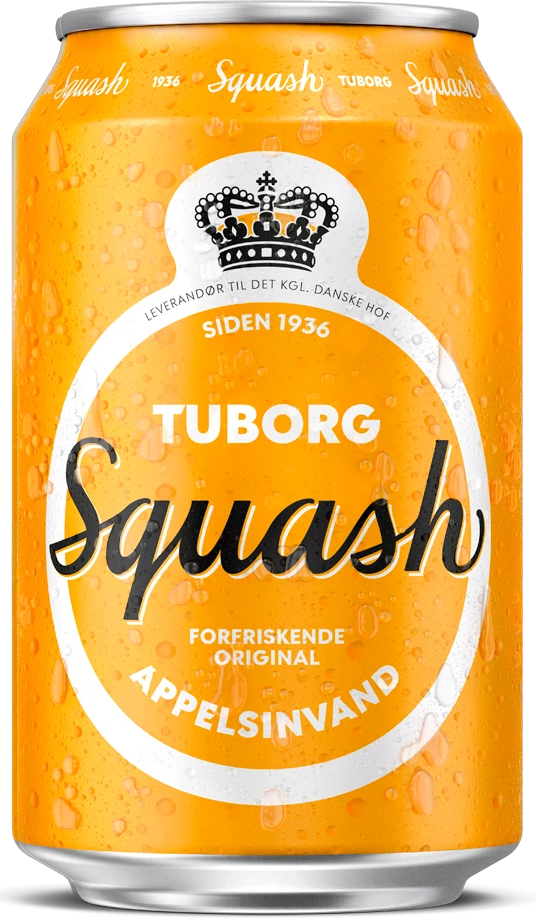
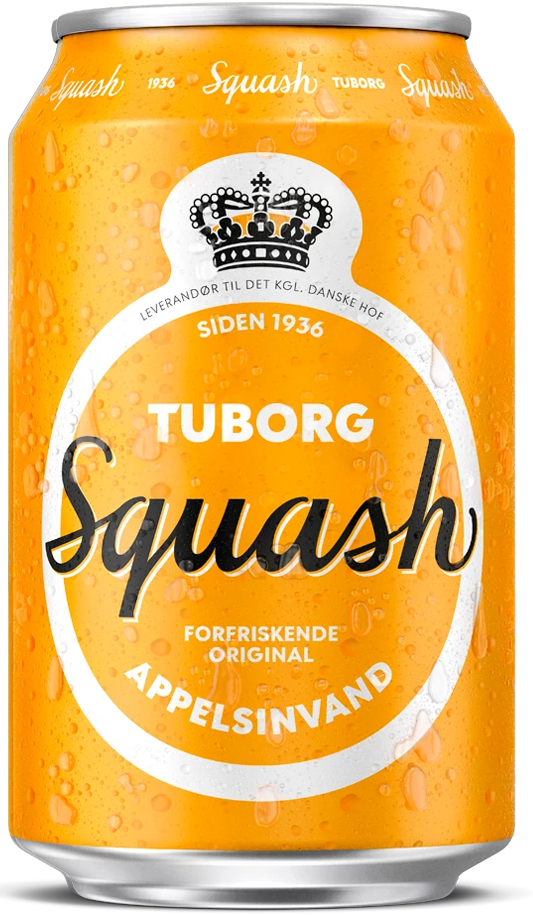
Optimizing & SEO
I have optimized all pictures by saving them for web in Photoshop and changing size if necessary.

I have also added Meta tags in written descriptions.

Lastly I deleted old code which was no longer necessary.

diff --git a/index.html b/index.html
@@ -5,10 +5,14 @@
     <meta charset="UTF-8">
     <meta http-equiv="X-UA-Compatible" content="IE=edge">
     <meta name="viewport" content="width=device-width, initial-scale=1.0">
+    <meta name="description" content="Find information omkring Tuborg Squash sodavand. Udforsk Squash universet og deltag i konkurrencer. 
+    Kom på en rejse gennem tiden og oplev hvordan Tuborg Squash har udviklet sig. 
+    Læs sjove fun-facts omkring sodavanden og se hvilke Tuborg Squash varianter vi tilbyder.">
     <script src="https://kit.fontawesome.com/e4a889809e.js" crossorigin="anonymous"></script>
-    <title>Tuborg Squash</title>
     <link rel="stylesheet" href="styles.css">
+    <link rel="preload" as="style" href="styles.css">
     <link rel="shortcut icon" href="images/favicon.png" type="image/x-icon">
+    <title>Tuborg Squash - Oplevelsesside 2022 | Find information omkring Tuborg Squash</title>
 </head>
 <body>
     <!-- HEADER -->
@@ -50,7 +54,7 @@
         </div>
         
         <!-- Arrow down -->
-        <a href="#section1"><i class="fa-solid fa-circle-arrow-down"></i></a>
+        <a href="#section1" aria-label="to next section"><i class="fa-solid fa-circle-arrow-down"></i></a>
     </section>
 
     <!-- MAIN CONTENT -->
@@ -60,14 +64,14 @@
             <div class="history">
                 <div class="history-text">
                     <h1>1936</h1>
-                    <img class="hist-img-small" src="images/oldposter.png" alt="gammel squash plakat">
+                    <img class="hist-img-small" src="images/oldposter.jpg" alt="gammel squash plakat">
                     <p>1936.... Parkometeret bliver opfundet. Danmark sætter kulderekord i juni Måned. Men vigtigst af alt, så bliver de første dråber Squash tappet d. 5 august 1936 og hældt på flaske. 
 
                         <br><br> Siden da har Tuborg Squash altid været en stor favorit blandt det danske folk. 
                         
                         <br><br> Undervejs er Tuborg Squash blevet understøttet af flere sjove reklamer. Herunder "skvash" reklamen med Finn & Jacob.</p>
                 </div>
-                <img class="hist-img-big" src="images/oldposter.png" alt="gammel squash plakat">
+                <img class="hist-img-big" src="images/oldposter.jpg" alt="gammel squash plakat">
             </div>
         </section>
         <!-- Second section -->
@@ -163,7 +167,7 @@
                     <h2>Tuborg Squash Light</h2>
                 </div>
             </div>
-            <a href="#front-page"><i class="fa-solid fa-house" id="house-bottom"></i></a>
+            <a href="#front-page" aria-label="to front page"><i class="fa-solid fa-house" id="house-bottom"></i></a>
         </section>
     </main>
 </body>

diff --git a/squashregular.html b/squashregular.html
@@ -5,10 +5,13 @@
     <meta charset="UTF-8">
     <meta http-equiv="X-UA-Compatible" content="IE=edge">
     <meta name="viewport" content="width=device-width, initial-scale=1.0">
+    <meta name="description" content="Tuborg Squash er Danmarks ældste sodavand som stadig er i produktion. Her kan du finde information omkring Tuborg Squash. 
+    Vil du vide hvad Tuborg Squash indeholder, kan du finde det her på siden.">
     <script src="https://kit.fontawesome.com/e4a889809e.js" crossorigin="anonymous"></script>
-    <title>Tuborg Squash - Regular</title>
     <link rel="stylesheet" href="styles.css">
+    <link rel="preload" as="style" href="styles.css">
     <link rel="shortcut icon" href="images/favicon.png" type="image/x-icon">
+    <title>Tuborg Squash - Oplevelsesside 2022 | Varianter | Tuborg Squash Regular</title>
 </head>
 <body>
     <!-- HEADER -->

diff --git a/squashlight.html b/squashlight.html
@@ -5,10 +5,12 @@
     <meta charset="UTF-8">
     <meta http-equiv="X-UA-Compatible" content="IE=edge">
     <meta name="viewport" content="width=device-width, initial-scale=1.0">
+    <meta name="description" content="Bliv klogere på Tuborg Squash Light. Det er Danmarks traditionsrige appelsinsodavand. Du kan finde information omkring Tuborg Squash indhold og andet.">
     <script src="https://kit.fontawesome.com/e4a889809e.js" crossorigin="anonymous"></script>
-    <title>Tuborg Squash - Regular</title>
     <link rel="stylesheet" href="styles.css">
+    <link rel="preload" as="style" href="styles.css">
     <link rel="shortcut icon" href="images/favicon.png" type="image/x-icon">
+    <title>Tuborg Squash - Oplevelsesside 2022 | Varianter | Tuborg Squash Light</title>
 </head>
 <body>
     <!-- HEADER -->

diff --git a/styles.css b/styles.css
@@ -399,11 +399,9 @@ section {
 *::-webkit-scrollbar {
     width: 7px;
 }
-
 *::-webkit-scrollbar-track {
     background: #ffffff;
 }
-
 *::-webkit-scrollbar-thumb {
     background-color: #FAA92D;
 }
@@ -547,16 +545,6 @@ section {
         font-size: 70pt;
     }
 
-    #hr {
-        display: block;
-        position: absolute;
-        border-bottom: 10px dashed white;
-        margin: 0;
-        width: 33%;
-        bottom: 620px;
-        left: 0;
-    }
-
     /* SQUASH PÅ ROS */
     #section3 {
         background-size: cover;
@@ -670,9 +658,6 @@ section {
     /* Text styling */
     .content-text h1, #lighth1 {
         font-size: 40pt;
-        text-align: center;
-    }
-    .content-text p {
         text-align: center;
     }
 

diff --git a/menu.html b/menu.html
@@ -132,6 +132,7 @@
             display: flex;
             flex-direction: column;
             gap: 5px;
+            padding-bottom: 20px;
             display: none;
         }
         .dropdown-content a {
